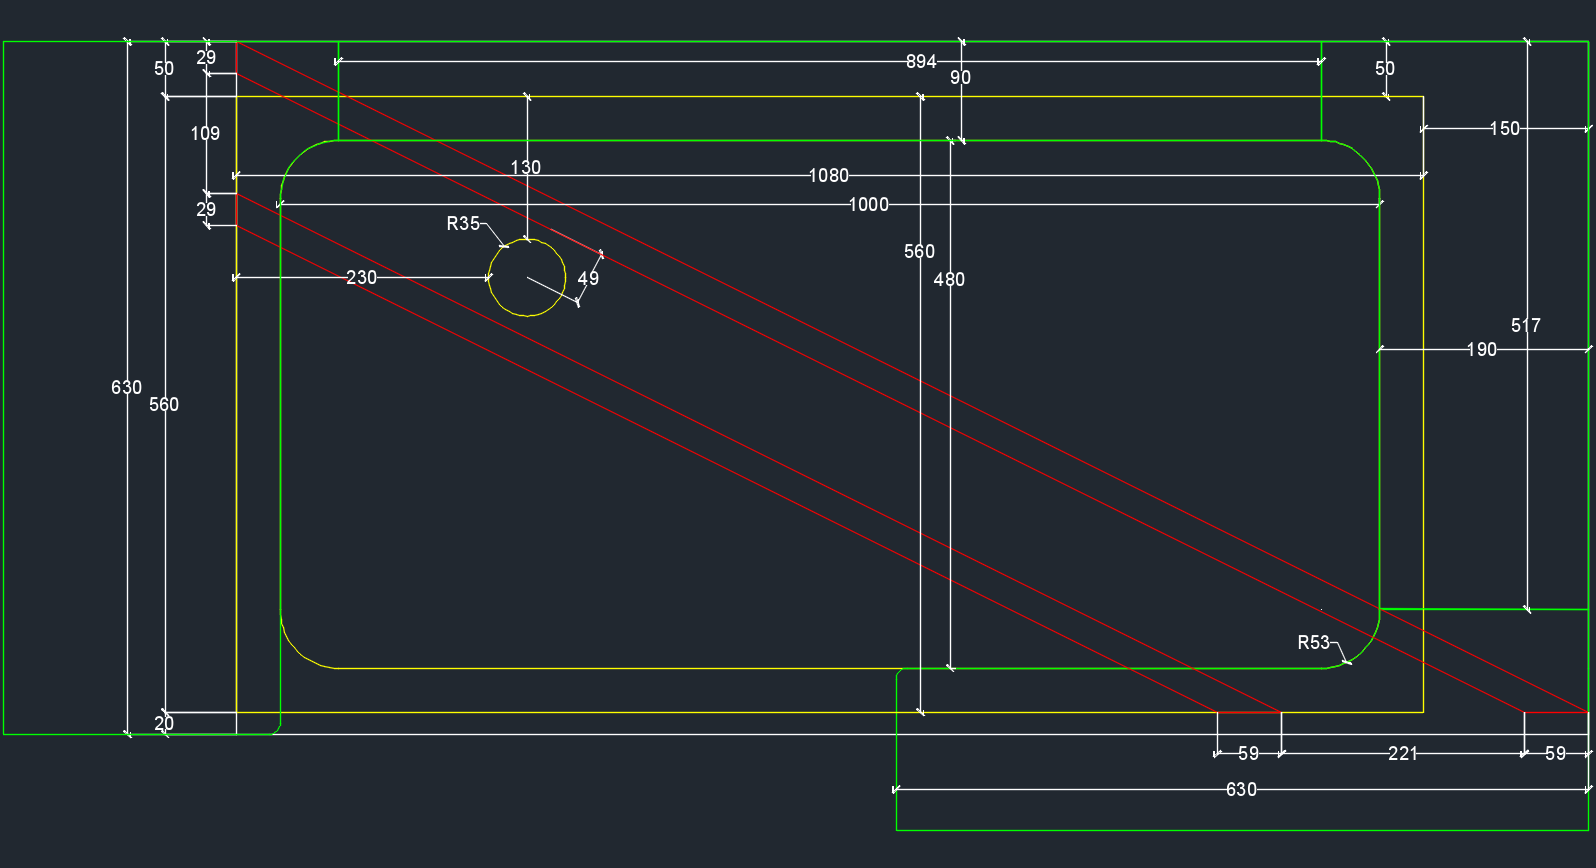
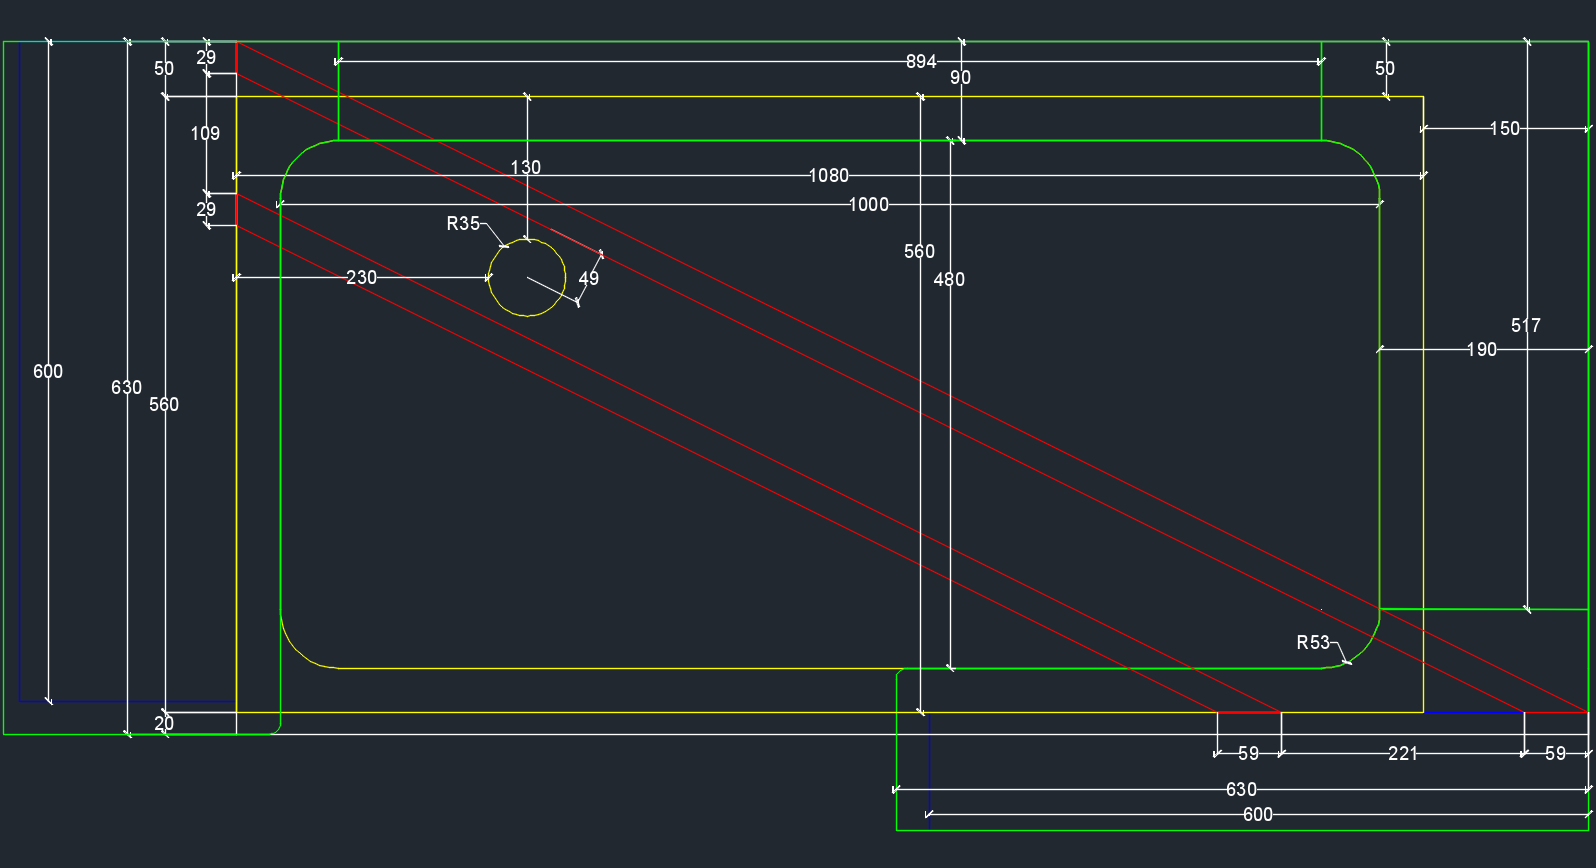
added corpus

Changed region(s): [[0.0, 0.0622, 0.0307, 0.8088], [0.5833, 0.9332, 1.0, 0.9643], [0.8904, 0.8088, 0.9518, 0.8399]]

diff --git a/index.md b/index.md
@@ -16,6 +16,7 @@
         - [hanno.at](http://www.hanno.at/de/parkettfugenmasse.html): Parkettfugenmasse Für Anschlussfugen bei Parkett- und Laminatböden sowie bei Sockelleisten, lösungsmittelfreie, schnelltrocknende Masse, Silikonfrei, schleifbar, überstreichbar, Nach dem Trocknen geringfügig elastisch, Geruchsfrei.
         - [Ferax](http://ferax.de/parkett-fugenmasse.html): Parkettfugenmasse, gebrauchsfertige, einkomponentige, silikonfreie, lösemittel- und formaldehydfreie Fugenmasse auf der Basis einer hochwertigen Polyacrylat-Dispersion. Eignet sich hervorragend zum Verschließen von Fugen bei allen Arten von Holzböden, wie z. B. Parkett, Dielen, Holzpflaster, Sockelleisten usw. sowohl vor als auch nach der Holzversiegelung. Zum Verfugen von Sockelleisten und anderen Abschlüssen. Nur für den Innenbereich einsetzbar, silikonfrei, lösemittelfrei, geruchsneutral, schnelltrocknend, schleifbar, überstreichbar, ohne Verlaufstörungen überversiegelbar, lange lagerfähig, temperaturbeständig.
 - kueche
+    - add corpus rectangles to waschtrog2.dwg
     - gasrohr legen fuer kochfeld
     - heizungsueberlaufabwasserleitung neu und schlank verlegen
     - befestigung fuer waschtrog planen
